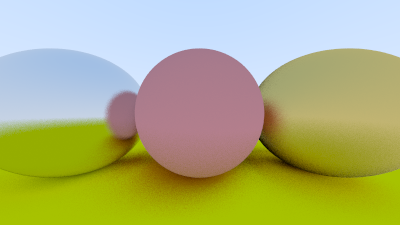
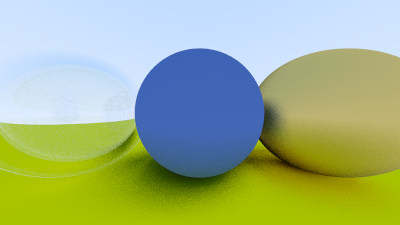
Chapter 10.5, hollow glass sphere

diff --git a/src/main.rs b/src/main.rs
@@ -3,7 +3,7 @@ use std::io::Error;
 use glam::DVec3;
 use image;
 
-use utils::{HitableList, Camera, Sphere, Lambertian, Metal, Color, random_double, write_color_buffer, ray_color};
+use utils::{HitableList, Camera, Sphere, Lambertian, Metal, Dielectric, Color, random_double, write_color_buffer, ray_color};
 
 fn main() -> Result<(), Error> {
     // Image
@@ -19,13 +19,14 @@ fn main() -> Result<(), Error> {
     let mut world = HitableList::new();
 
     let material_ground = Rc::new(Lambertian::new(Color::new(0.8, 0.8, 0.0)));
-    let material_center = Rc::new(Lambertian::new(Color::new(0.7, 0.3, 0.3)));
-    let material_left = Rc::new(Metal::new(Color::new(0.8, 0.8, 0.8), 0.3));
+    let material_center = Rc::new(Lambertian::new(Color::new(0.1, 0.2, 0.5)));
+    let material_left = Rc::new(Dielectric::new(1.5));
     let material_right = Rc::new(Metal::new(Color::new(0.8, 0.6, 0.2), 1.0));
     
     world.add(Rc::new(Sphere::new(DVec3::new( 0.0, -100.5, -1.0), 100.0, Some(material_ground))));
     world.add(Rc::new(Sphere::new(DVec3::new( 0.0,    0.0, -1.0),   0.5, Some(material_center))));
-    world.add(Rc::new(Sphere::new(DVec3::new(-1.0,    0.0, -1.0),   0.5, Some(material_left))));
+    world.add(Rc::new(Sphere::new(DVec3::new(-1.0,    0.0, -1.0),   0.5, Some(material_left.clone()))));
+    world.add(Rc::new(Sphere::new(DVec3::new(-1.0,    0.0, -1.0),  -0.4, Some(material_left))));
     world.add(Rc::new(Sphere::new(DVec3::new( 1.0,    0.0, -1.0),   0.5, Some(material_right))));
 
     // Camera

diff --git a/libs/utils/src/material.rs b/libs/utils/src/material.rs
@@ -1,3 +1,4 @@
+use glam::DVec3;
 use super::algebra::*;
 use super::hitable::*;
 use super::ray::*;
@@ -59,6 +60,14 @@ impl Dielectric {
     pub fn new(index_of_refraction : f64) -> Self {
         Dielectric { ir : index_of_refraction }
     }
+
+    fn reflectance(cosine : f64, ref_idx : f64) -> f64 {
+        // Use Schlick's approximation for reflectance.
+        let mut r0 = (1.0 - ref_idx) / (1.0 + ref_idx);
+        r0 = r0 * r0;
+        
+        r0 + (1.0 -r0) * ((1.0  - cosine).powf(5.0))
+    }
 }
 
 impl Material for Dielectric {
@@ -67,9 +76,20 @@ impl Material for Dielectric {
         let refraction_ratio = if rec.front_face { 1.0 / self.ir } else { self.ir };
 
         let unit_direction = r_in.direction().normalize();
-        let refracted = refract(unit_direction, rec.normal, refraction_ratio);
 
-        *scattered = Ray::new(rec.p, refracted);
+        let cos_theta = (-unit_direction).dot(rec.normal).min(1.0);
+        let sin_theta = (1.0 - cos_theta*cos_theta).sqrt();
+
+        let cannot_refract = refraction_ratio * sin_theta > 1.0;
+        let direction : DVec3;
+        
+        if cannot_refract || Dielectric::reflectance(cos_theta, refraction_ratio) > random_double() {
+            direction = reflect(unit_direction, rec.normal);
+        } else {
+            direction = refract(unit_direction, rec.normal, refraction_ratio);
+        };
+
+        *scattered = Ray::new(rec.p, direction);
         true
     }
 }
